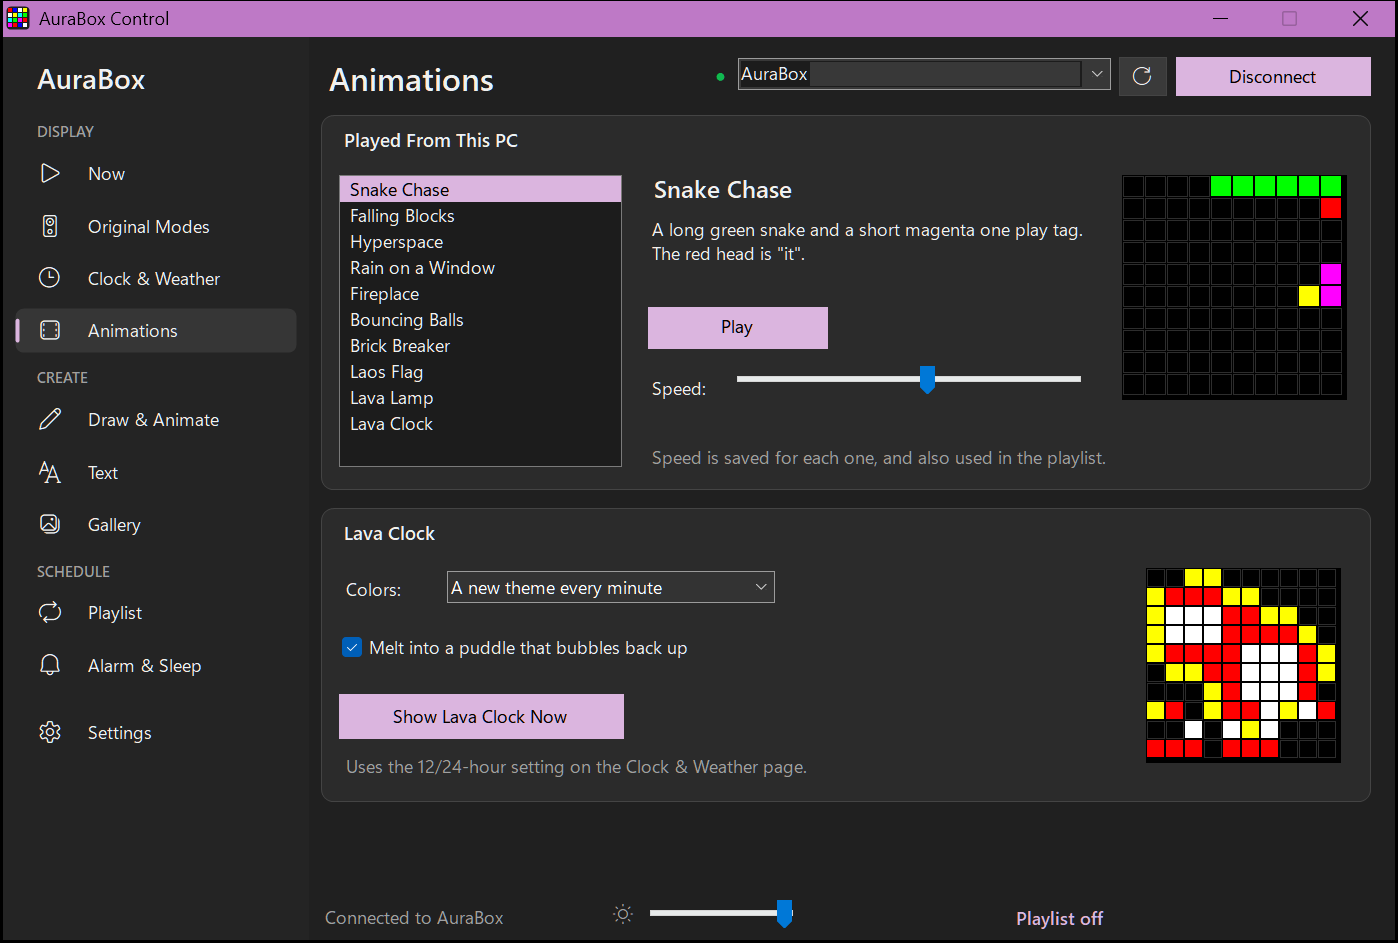
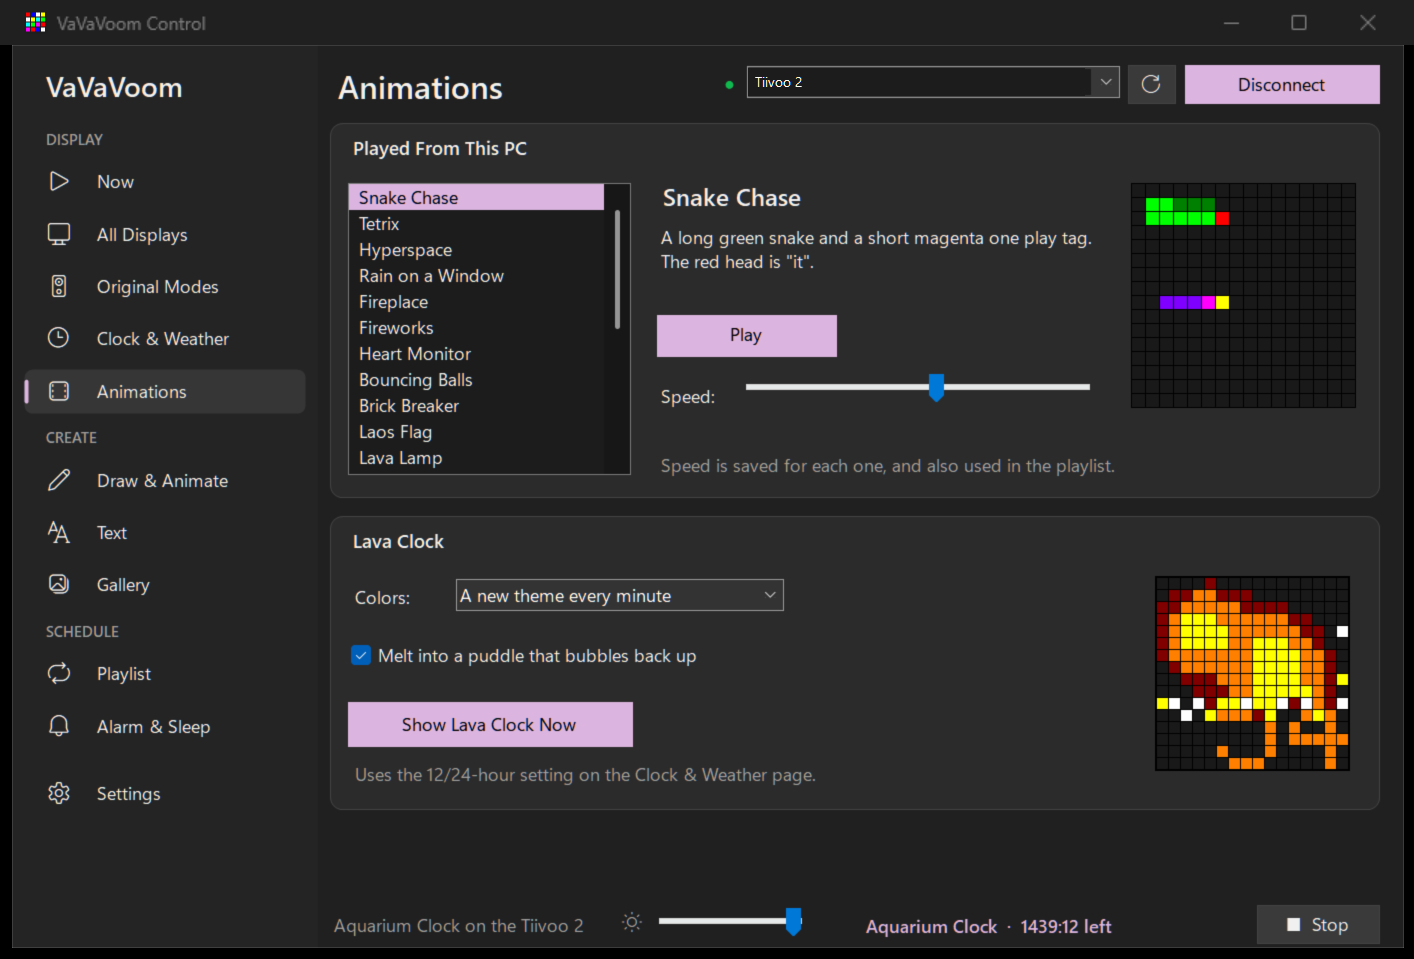
New README screenshots; Tiivoo 2 lyrics button relabeled
- Screenshots of 1.3.0: Now, Animations (Tiivoo 2), Original Modes with the Tiivoo 2's
  tools, and Settings (Bluetooth addresses masked)
- Lyrics Screen: says words show only for players that send lyrics (with music from a PC
  the Tiivoo 2 shows its visualizer)
- Aquarium Clock gets a preview on the Now page; clearer logs for clock-face requests

diff --git a/src/AuraBoxControl.cs b/src/AuraBoxControl.cs
@@ -838,7 +838,26 @@ namespace AuraBoxControl
             LocalFaceAsked = LocalFaceSent = false;
             ClockChannel();
             Json("{\"Command\":\"Channel/SetClockSelectId\",\"ClockId\":" + id + "}");
-            Remember(null, "Clock: " + title, () => { ClockChannel(); Json("{\"Command\":\"Channel/SetClockSelectId\",\"ClockId\":" + id + "}"); });
+            Remember(FacePreview(file), "Clock: " + title, () => { ClockChannel(); Json("{\"Command\":\"Channel/SetClockSelectId\",\"ClockId\":" + id + "}"); });
+        }
+
+        // the app's preview of a face background (1F): its first frame's middle 128 x 128, shrunk, as ShowWide's
+        static int[] FacePreview(byte[] file)
+        {
+            try
+            {
+                if (file == null || file.Length < 10 || file[0] != 0x1F) return null;
+                int len = file[6] << 24 | file[7] << 16 | file[8] << 8 | file[9];
+                using (var mem = new MemoryStream(file, 10, len))
+                using (var bmp = new System.Drawing.Bitmap(mem))
+                {
+                    var mid = new int[Pixels * Pixels]; int x0 = (bmp.Width - Pixels) / 2;
+                    for (int y = 0; y < Pixels && y < bmp.Height; y++)
+                        for (int x = 0; x < Pixels; x++) mid[y * Pixels + x] = bmp.GetPixel(x0 + x, y).ToArgb() & 0xFFFFFF;
+                    return Proto.Shrink128(mid);
+                }
+            }
+            catch (Exception) { return null; }
         }
 
         // its clock channel (Channel/SetIndex 0), from another screen such as a tool; picking a face alone leaves it there
@@ -895,8 +914,10 @@ namespace AuraBoxControl
             {   // JSON it wants passed on to Divoom
                 string j = Encoding.UTF8.GetString(f, 6, f.Length - 9);
                 var m = Regex.Match(j, "\"Command\"\\s*:\\s*\"([^\"]+)\"");
-                if (!m.Success || !DivoomAccount.SignedIn) return;
+                if (!m.Success) return;
                 string c = m.Groups[1].Value;
+                { var tr = Trace; if (tr != null) tr("> json " + j.Replace("\n", " ").Replace("\t", "").Substring(0, Math.Min(160, j.Length))); }
+                if (!DivoomAccount.SignedIn) return;
                 if (c == "Channel/DeviceGetMyClock")
                     Later(delegate
                     {
@@ -1229,7 +1250,8 @@ namespace AuraBoxControl
                     inbox.RemoveRange(0, end + 1);
                     if (f.Length < 8 || f[3] != 4 || f[5] != 0x55) continue;
                     var tr = Trace;
-                    if (tr != null && f[4] != 0xF7) tr(BitConverter.ToString(f, 4, Math.Min(f.Length - 4, 24)));
+                    if (tr != null && f[4] != 0xF7) tr(f[4] == 0x01 ? "json from it: " + Encoding.UTF8.GetString(f, 6, Math.Max(0, f.Length - 9)).Replace("\n", " ").Replace("\t", "")
+                                                       : BitConverter.ToString(f, 4, Math.Min(f.Length - 4, 24)));
                     if (f[4] == 0x8B && f[6] == 0) asked.Set();
                     else if (f[4] == 0x8B && f[6] == 1 && f.Length > 9)
                     {

diff --git a/src/MainForm.cs b/src/MainForm.cs
@@ -1560,11 +1560,15 @@ namespace AuraBoxControl
             var lyricFx = new ComboBox { DropDownStyle = ComboBoxStyle.DropDownList, Location = new Point(246, 136), Width = 160, AccessibleName = "Lyrics text effect" };
             lyricFx.Items.AddRange(Tiivoo2.LyricEffects); lyricFx.SelectedIndex = 0;
             t2.Controls.Add(lyricFx);
-            t2.Controls.Add(Btn("Show Lyrics", 412, 133, 120, delegate
+            // tested 2026-11-13: with music from a PC it shows its visualizer and no words (the lyrics come with the music
+            // from players that send them, not from this app or Divoom's)
+            var lyricsBtn = Btn("Lyrics Screen", 412, 133, 120, delegate
             {
                 int lyricBg = lyricBack.SelectedIndex, lyricHow = lyricFx.SelectedIndex;
-                onT2(d => d.ShowLyrics(lyricBg, lyricHow), "Tiivoo 2 lyrics (for music playing through it)");
-            }, true));
+                onT2(d => d.ShowLyrics(lyricBg, lyricHow), "Tiivoo 2 lyrics screen: words show only for music players that send lyrics; from a PC it shows its visualizer");
+            }, true);
+            new ToolTip().SetToolTip(lyricsBtn, "Words appear only for music players that send lyrics with the song.\r\nWith music from a PC, it shows its sound visualizer.");
+            t2.Controls.Add(lyricsBtn);
 
             t2.Controls.Add(new Label { Text = "Screens:", Location = new Point(14, 188), AutoSize = true });
             t2.Controls.Add(Btn("Photos", 110, 181, 96, delegate { onT2(d => d.ShowPhotos(), "Tiivoo 2 photo album"); }));

diff --git a/README.md b/README.md
@@ -60,9 +60,9 @@ display that keeps going from the system tray.
   - Reconnects to the box automatically.
   - Settings backup and restore.
 
-| Animations | Original Modes |
+| Animations | Original Modes (the Tiivoo 2's tools) |
 |---|---|
-| ![Animations page](docs/live.png) | ![Original Modes page](docs/aurabox.png) |
+| ![Animations page](docs/live.png) | ![Original Modes page](docs/modes.png) |
 
 ![Settings page](docs/settings.png)
 
